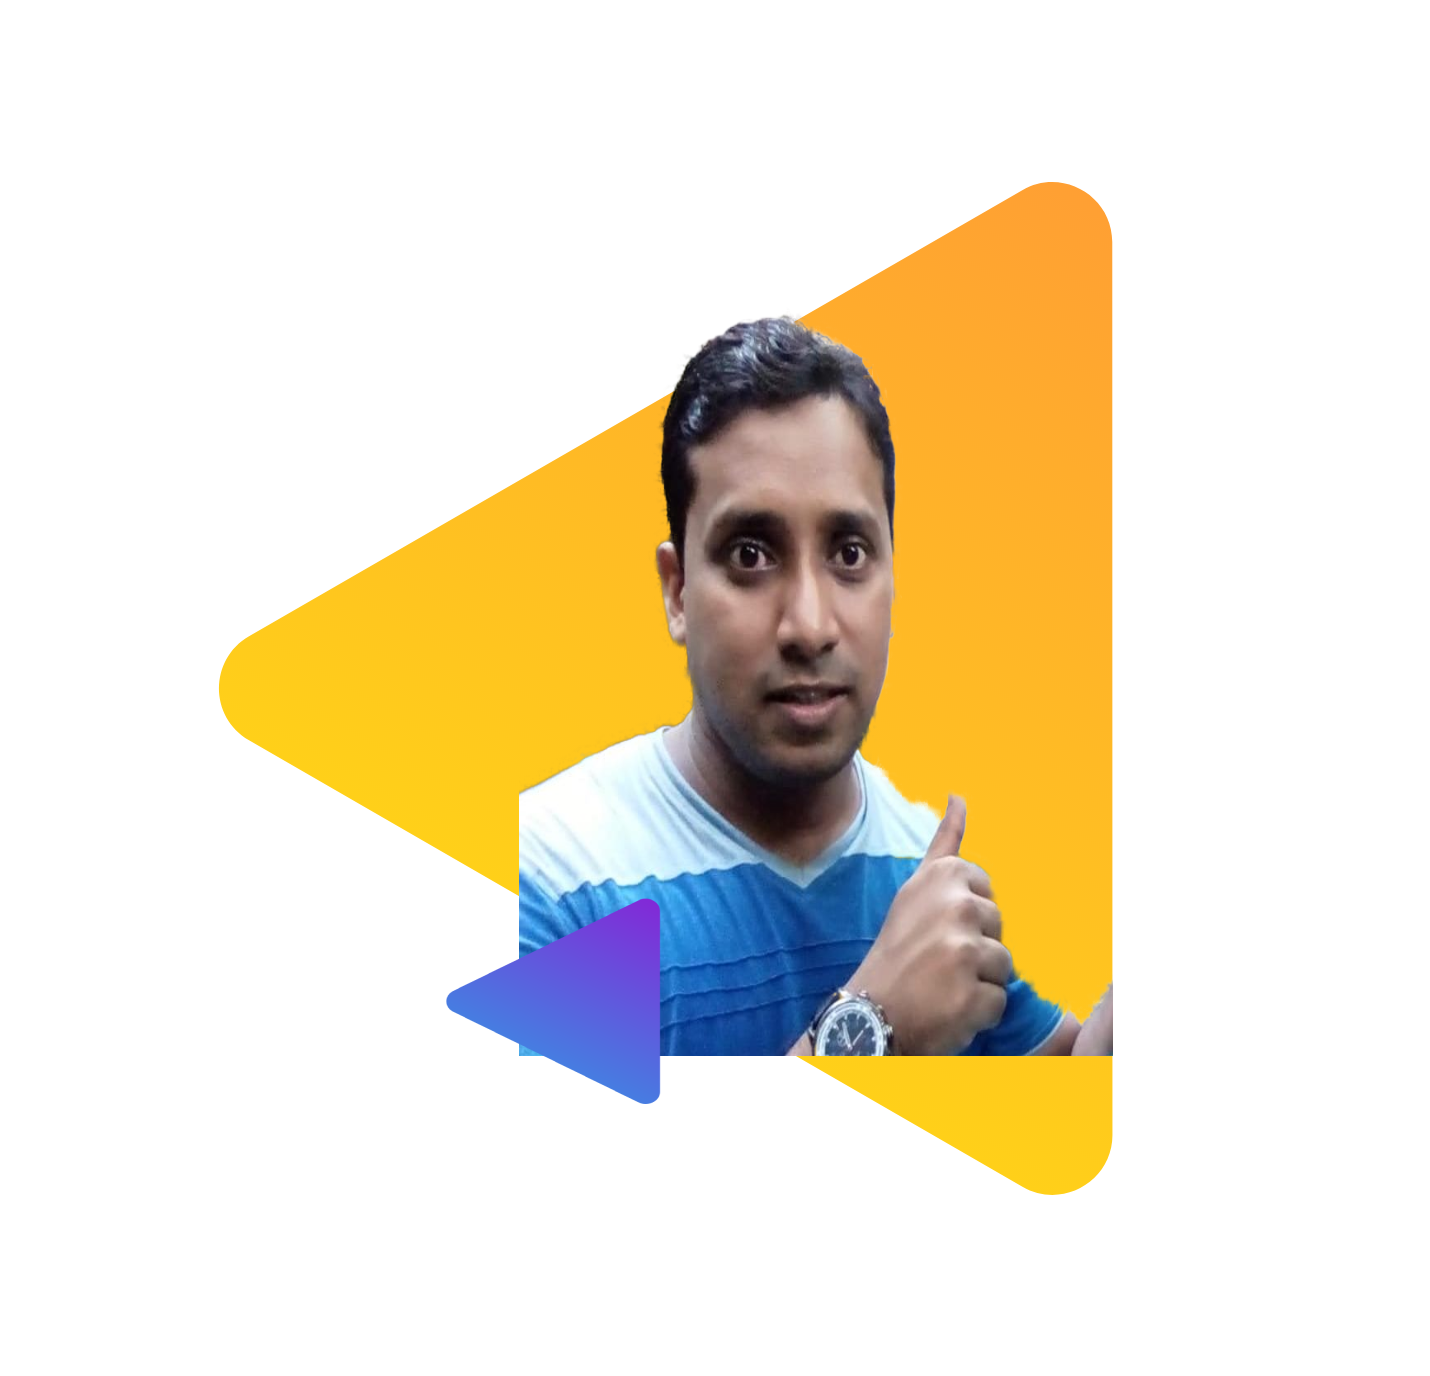
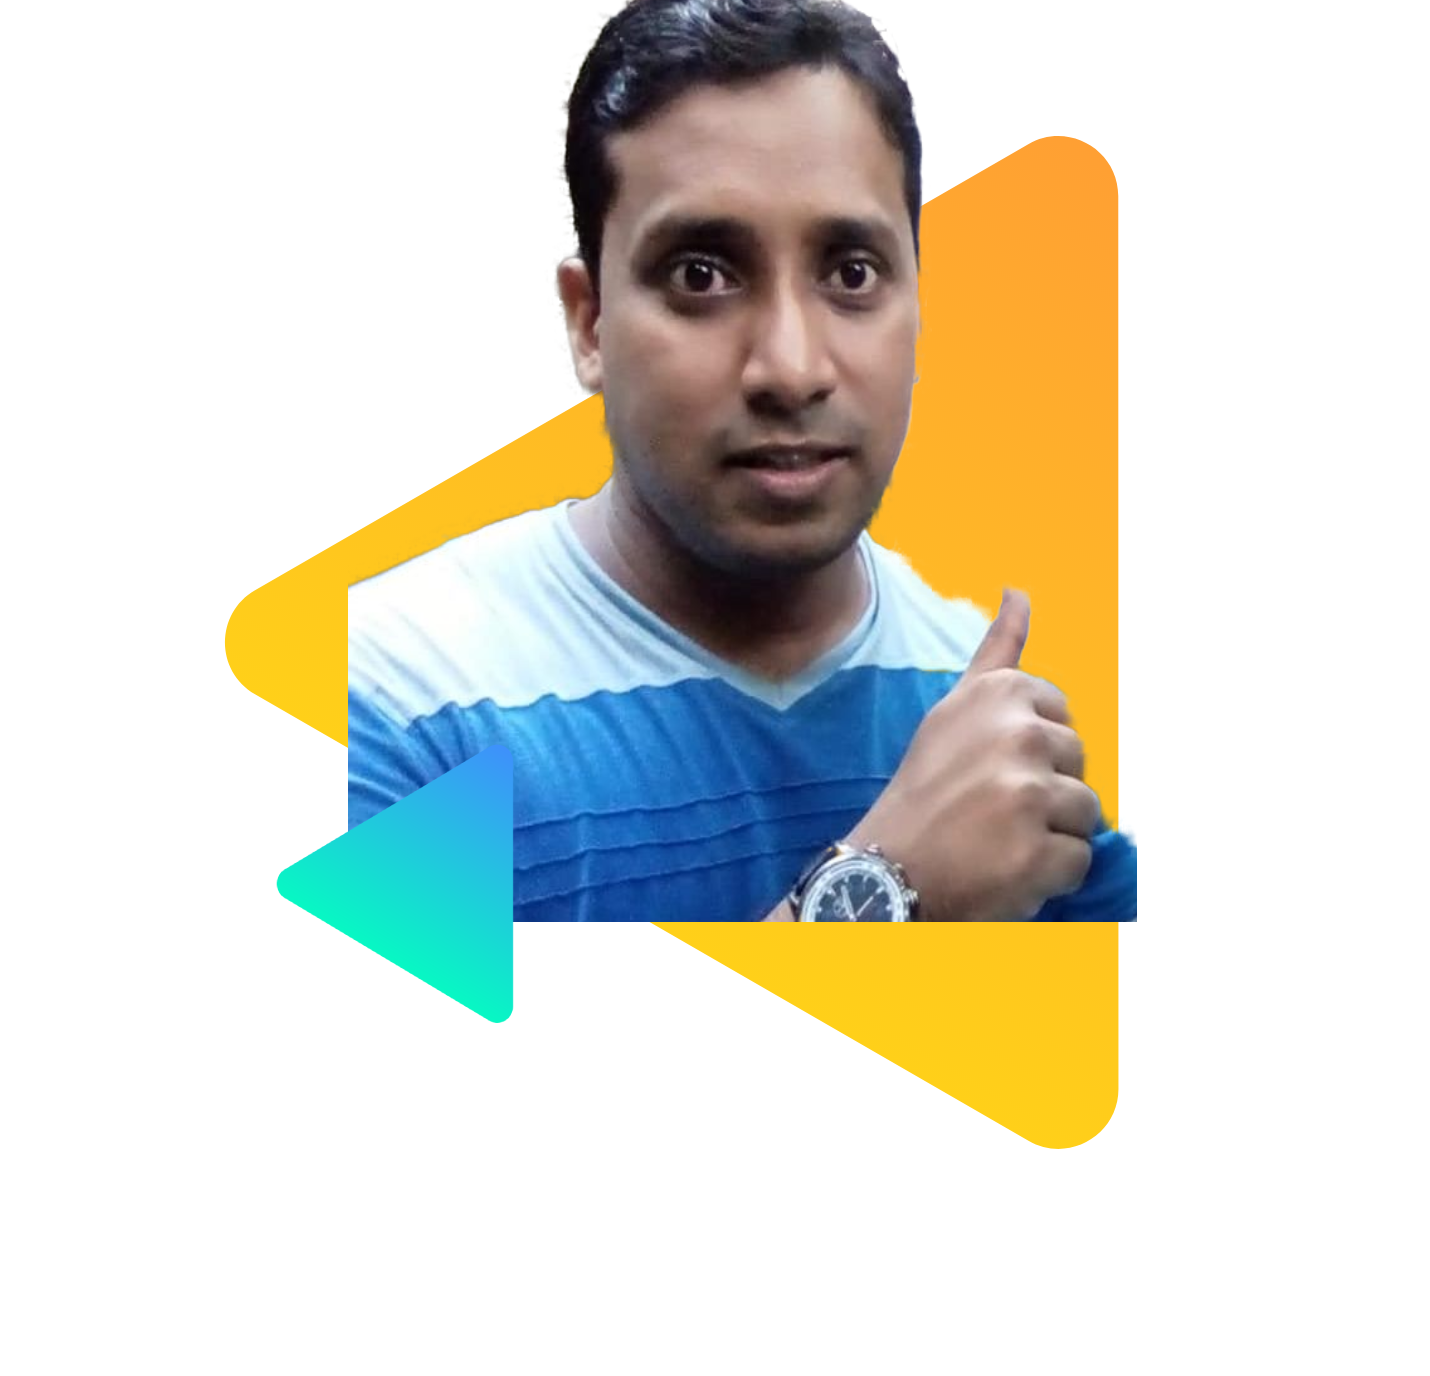
My First Website Assignment

Changed region(s): [[0.1538, 0.0, 0.8, 0.875]]

diff --git a/index.html b/index.html
@@ -8,15 +8,78 @@
     <link rel="stylesheet" href="style.css">
 </head>
 <body>
-    <section> 
+    <section class="top-banner"> 
         <div class="half-width">
             <h1>Hello I'm</h1>
             <h1><span class="name-highlight"> Sana Ullah Khan</span></h1>
-            <p>Web Developer is the independent key.So its give you amazing life when you can done such nicely.You can see me another charimatic life.</p>
+            <p>Web Developer is the independent key.So its give you amazing life when you can done such nicely.You can see me another charimatic life beceause life is such beautiful when web developer doing the job properly.</p>
+            <a class="link-button" target="_blank" href="https://www.linkedin.com/in/sanaullahkhansopnodhora/">HIRE ME</a>
         </div>
-      <div class="half-width"> 
+    <div class="half-width"> 
         <img src="images/profile1.png">
     </div> 
     </section>
+    <section class="biography-area">
+        <div class="half-width">
+            <img src="images/profile22.png">
+        </div>
+        <div class="half-width">
+            <h2>Biography</h2>
+            <p> I am learning web development.Already i have learned many things how can make a website.So if u want good,dynamic website i am the right person to making u website. </p>
+            <a class="link-button" target="_blank" href="https://www.linkedin.com/in/sanaullahkhansopnodhora/">Download Cv</a>
+        
+        </div>
+
+    </section>
+    <section>
+        <h3> My Latest Work  </h3>  
+     
+        <div class="row">
+            <div class="column">
+        <img src="images/latest-work/work-1.png" style="width: 100%">
+                </div>
+        <div class="column" >
+        <img src="images/latest-work/work-2.jpg" style="width: 100%"> 
+        </div> 
+        <div class="column"> 
+         <img src="images/latest-work/work-3.jpg" style="width: 100%">
+        </div>
+             </div>
+    </section>
+    <section class="last-banner"> 
+        <h4> What Client are say !</h4>
+         <div class ="last">
+         <h4> Mazed Khan </h4>
+         <p> Founder @ CEO ALias </p>
+         <p><q>Amazing person such a wonderful creation.</q></p>
+        
+         </div>
+    </section>
+    <section>
+         <div class ="last">    
+         <a class="link-button1" target="_blank" href="https://login.yahoo.com/?.src=ym&.lang=en-US&.intl=us&.done=https%3A%2F%2Fmail.yahoo.com%2Fd"> md_sanaullah_khan@yahoo.com </a>
+    </div>
+    </section>
+    <section class="experience-area">
+        <h4> Experiences </h4>
+        <div id="full-stack" class="half-width single-experience"> 
+           
+            <h2>Full Stock Developer</h2>
+            <h2 class="name-highlight"> 2020-Present | Pro level web developer </h2>
+            <p> I am totally web developer.Its my passionate when total website fully done by dynamic updateed software version.</p>
+ 
+        </div>
+        <div id="baby-web" class="half-width single-experience">
+            <h2>Baby Web devekoper</h2>
+            <h2 class="name-highlight"> 2019-2021 | Web programmer </h2>
+            <p> Web developing Programing really need in the present Corona-19 Pandemic sitaution and that's why my experience vast in this field.</p>
+        </div>
+    </section>
+
+    <footer>
+        <p> Sanaullah khan initiative. @ all rights Reserved 2020</p>
+     </footer>
+
+
 </body>
 </html>

diff --git a/style.css b/style.css
@@ -1,18 +1,113 @@
 body{
+    margin: 0px;
     font-family: 'Vidaloka', serif;
 }
 h1{
    font-size: 50px;
+}
+h2{
+    font-size: 40px;
+}
+h3{
+    font-size: 38px;
+    text-align: center;
+}
+h4{
+    font-size: 35px;
+    text-align: center;
+}
+.last{
+    font-size: 30px;
+    text-align: center;
+}
+p{
+    color: dimgray;
+    font-size: 25px;
+}
+.quotation{
+    text-align: left;
 }
 .name-highlight{
     color: crimson;
 }
 .half-width{
     width: 40%;
-    float: left;
+    float:left;
     margin-left: 5%;
     padding-left: 2%;
 }
 .half-width img{
     width: 100%;
 }
+.column{
+    float: left;
+    width: 32%;
+    padding: 5px;
+}
+.row::after{
+    content: "";
+    clear: both;
+    display: table;
+}
+
+   .top-banner{
+     background-image: url("images/header-bg.png");
+     background-size: 900px;
+     background-repeat: no-repeat;
+    }
+    section{
+        height: 500px;
+        padding-bottom: 150px;
+    }
+    .link-button{
+        text-decoration: none;
+        background-image: linear-gradient( 45deg, rgb(238, 114, 65), rgb(238, 48, 14));
+        padding: 10px 20px;
+        border-radius: 1px;
+        color: white;
+        font-weight: 700;
+    }
+    .link-button1{
+        text-decoration: none;
+        background-image: linear-gradient( 45deg, rgb(238, 114, 65), rgb(238, 48, 14));
+        padding: 90px 100px;
+        border-radius: 1px;
+        color: white;
+        font-weight: 700;
+        
+    }
+    .biography-area{
+       background-image: url("images/biography-bg.png");
+       background-repeat: no-repeat;
+       background-repeat: 900px;
+       }
+    .last-banner{
+        background-image: url("images/footer-bg.png");
+        background-size: 900px;
+        background-repeat: no-repeat;
+    }
+    footer p{
+        text-align: center;
+        font-size: 10px;
+    }
+    .experience-area{
+        background-image: url("images/exp-bg.png");
+        background-repeat: no-repeat;
+        background-position: left;
+    }
+    #full-stack{
+        border-left: 7px solid;
+        border-image: linear-gradient(180deg, lightSalmon,tomato);
+        border-image-slice: 1;
+    }
+    #baby-web{
+        border-left: 7px solid;
+        border-image: linear-gradient(180deg,blue,cyan);
+        border-image-slice: 1;
+    }
+    .single-experience{ 
+        box-shadow: 10px 20px 40px grey;
+        border-radius: 5px;
+        height: 80%;
+        background-color: white;
+    }
